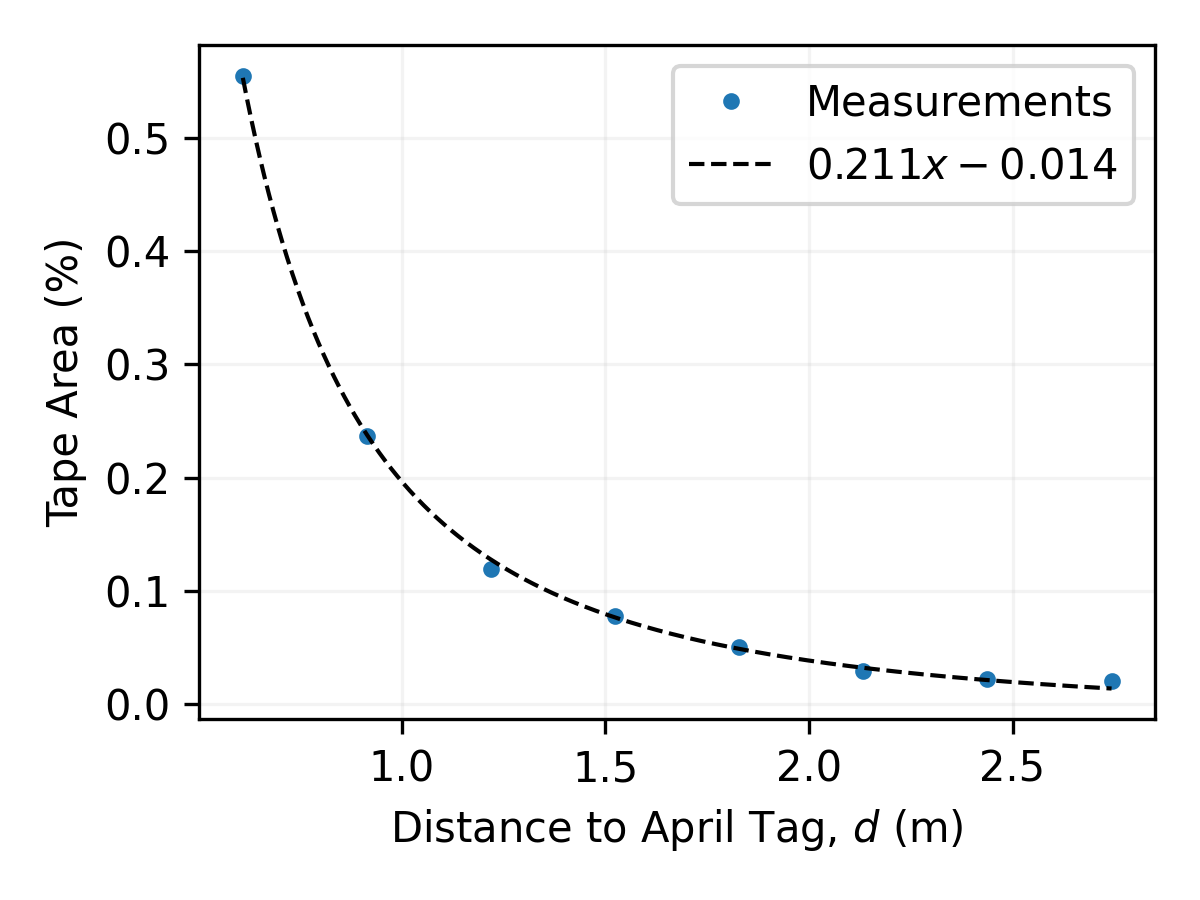
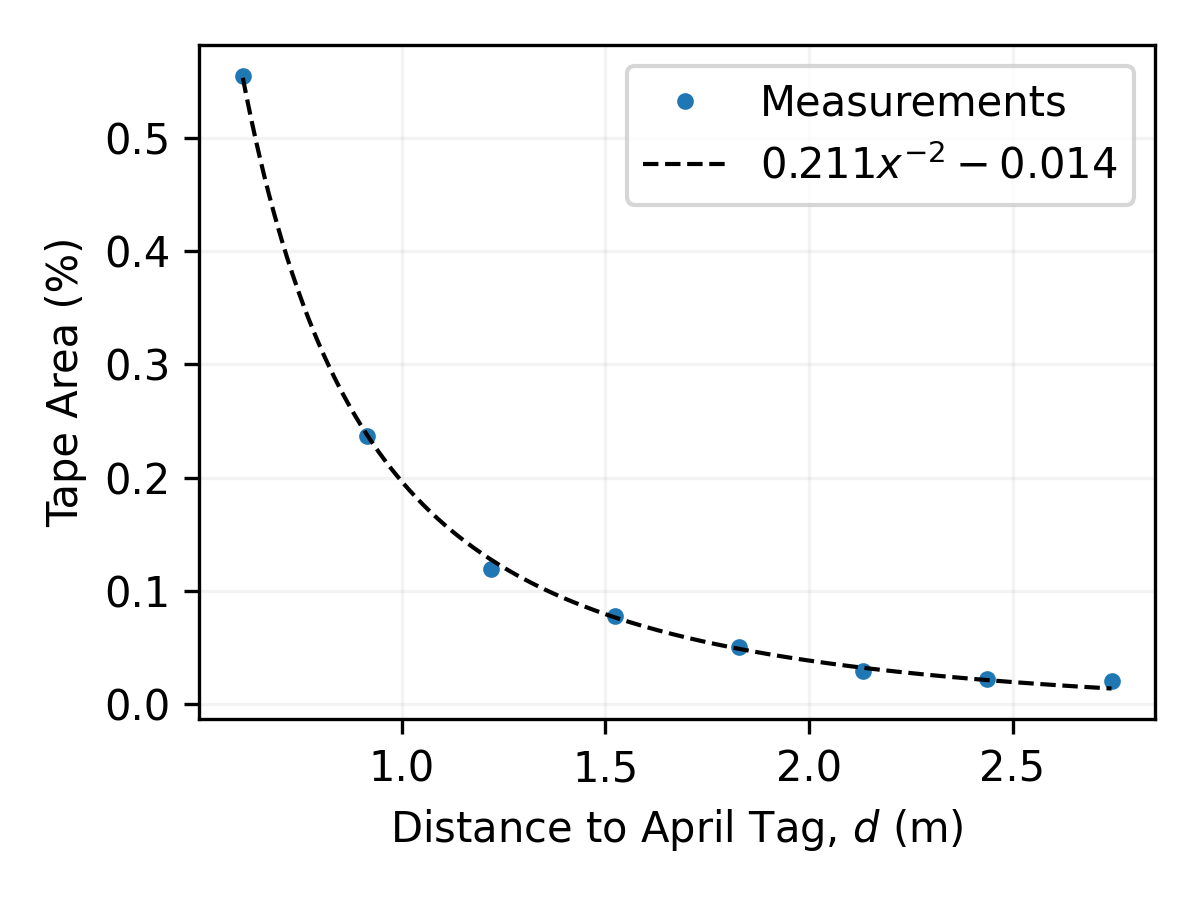
updated equation shown in plot legend to correct exponent (i.e., -2)

diff --git a/Analysis/limelightCalibration.py b/Analysis/limelightCalibration.py
@@ -35,7 +35,7 @@ if __name__ == '__main__':
     plt.figure(figsize=(4,3))
     plt.plot(distance_m, area, marker='.', linestyle='', linewidth=1.0, label='Measurements')   
 
-    plt.plot(x, func(x, *popt), linestyle='--', color='k', linewidth=1.0, label=f'{popt[0]:0.3f}'+r'$x-$'+f'{popt[1]:0.3f}' )
+    plt.plot(x, func(x, *popt), linestyle='--', color='k', linewidth=1.0, label=f'{popt[0]:0.3f}'+r'$x^{-2}-$'+f'{popt[1]:0.3f}' )
     plt.legend(loc='upper right')
     plt.grid(which='both', alpha=0.15)
     plt.xlabel(r'Distance to April Tag, $d$ (m)')
